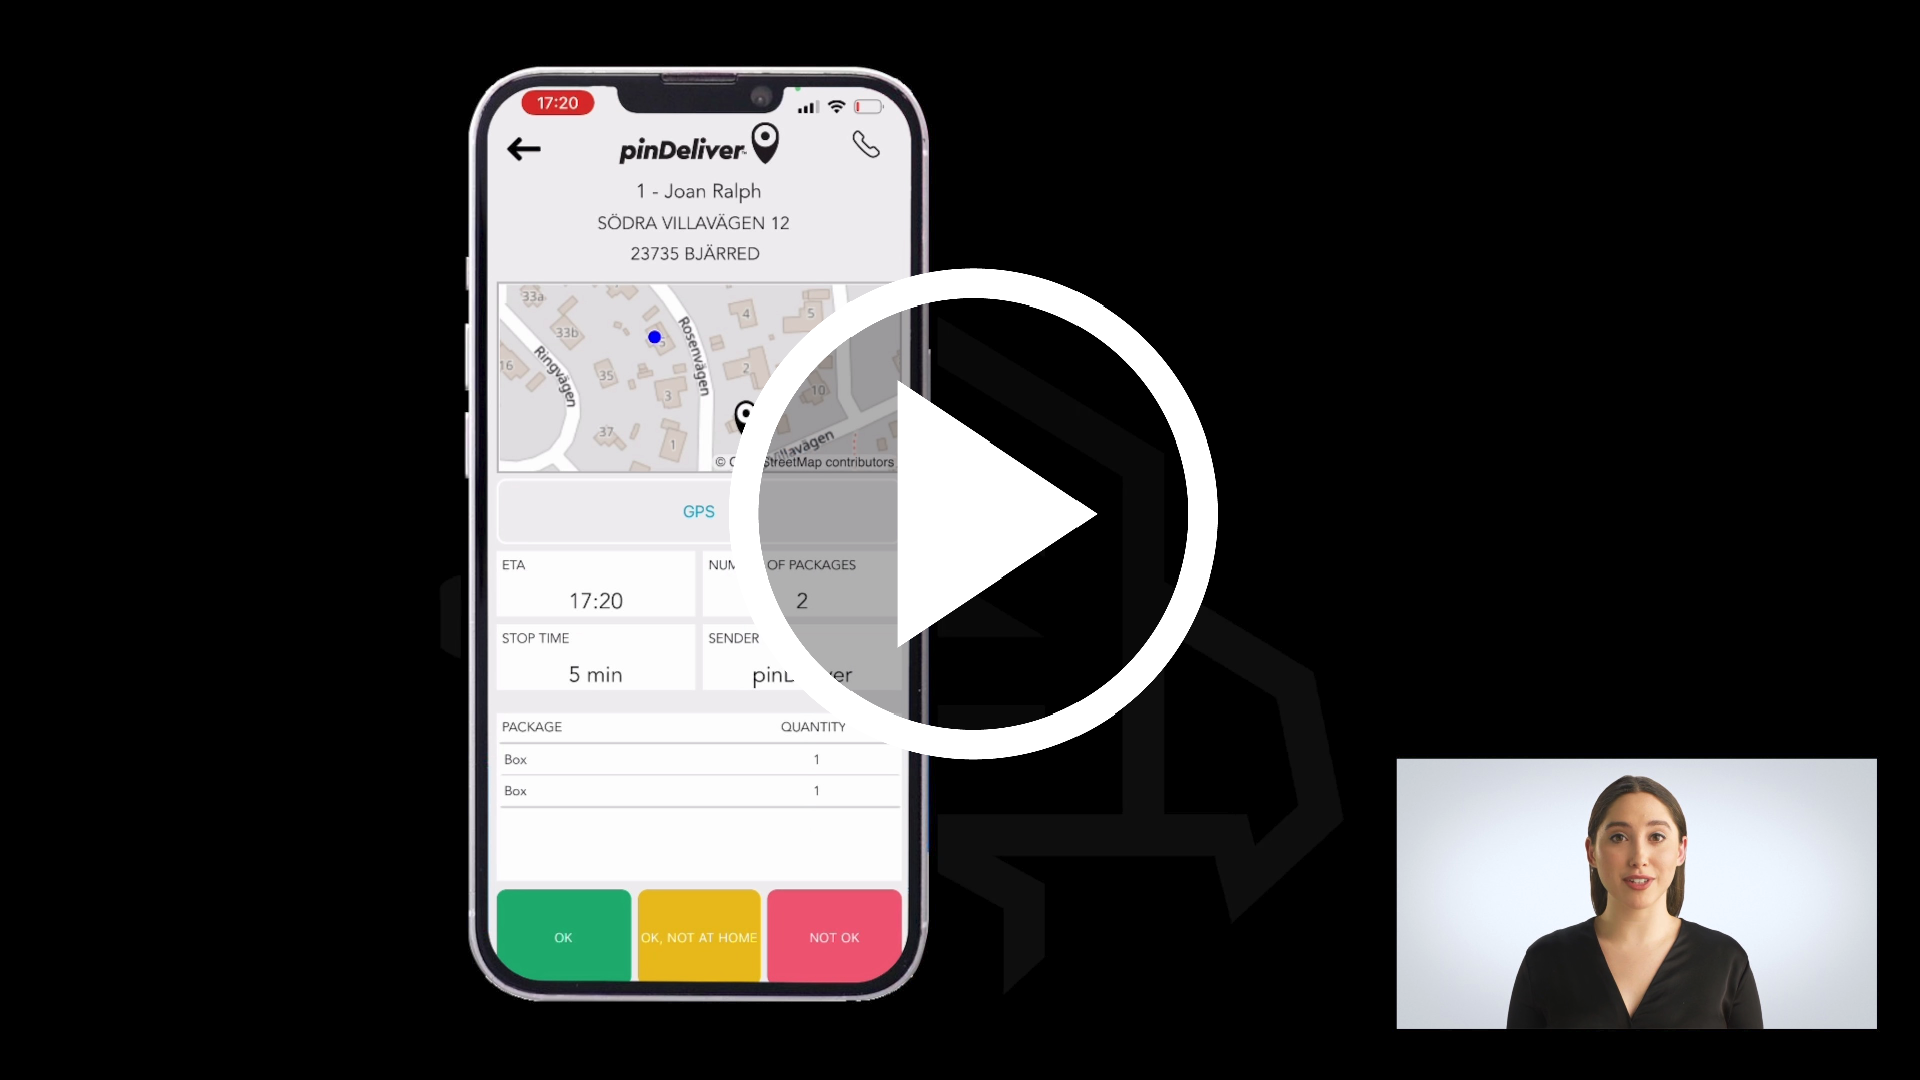
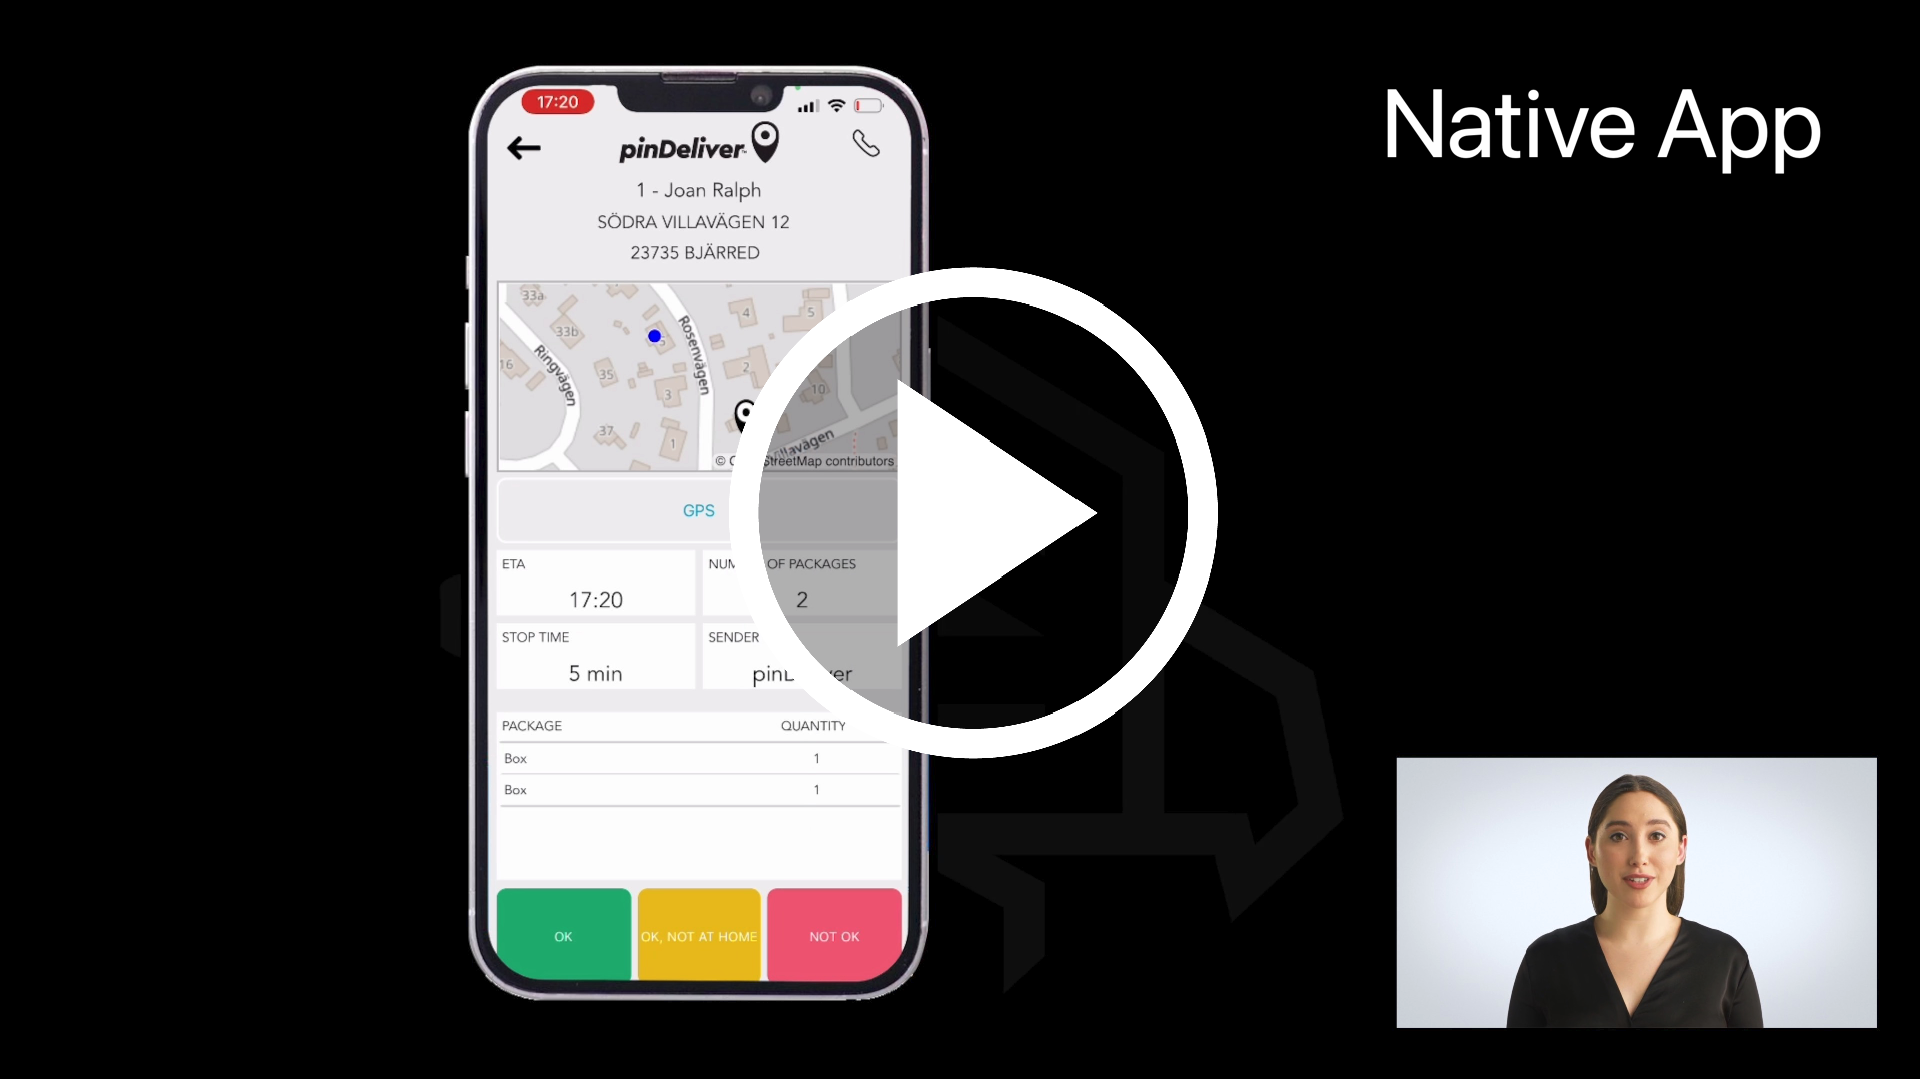
MW 220711 1227

diff --git a/documentation/go_app_for_drivers.md b/documentation/go_app_for_drivers.md
@@ -6,9 +6,13 @@ We have developed two different apps with similar functionality but some importa
 
 The so called Native app is developed for Android and iOS devices. The users can see a slightly different behavior between the apps. In the web app all customers are loaded at once when opening the *Driving list* but in the native app each stop is loaded separately but automatically when finishing the previous stop. The Native app has support for scanning package numbers when loading and unloading and some other flows, for example returns.
 
-Click the image below to see a clip about the installed Native app:
+Click the screenshots below to see a clips about the different Go Apps.
+
 <p float="right">
 <a href="https://youtu.be/wSbx6dpNieA" target="_blank">
-<img  alt="Go App Native" src="/images/go_app_native_movieclip_screenshot.png" width="600">
+<img alt="Go App Native" src="/images/go_app_native_movieclip_screenshot.png" width="300">
+</a>
+<a href="https://youtu.be/wSbx6dpNieA" target="_blank">
+<img alt="Go App Web" src="/images/go_app_web_movieclip_screenshot.png" width="300">
 </a>
 </p>
